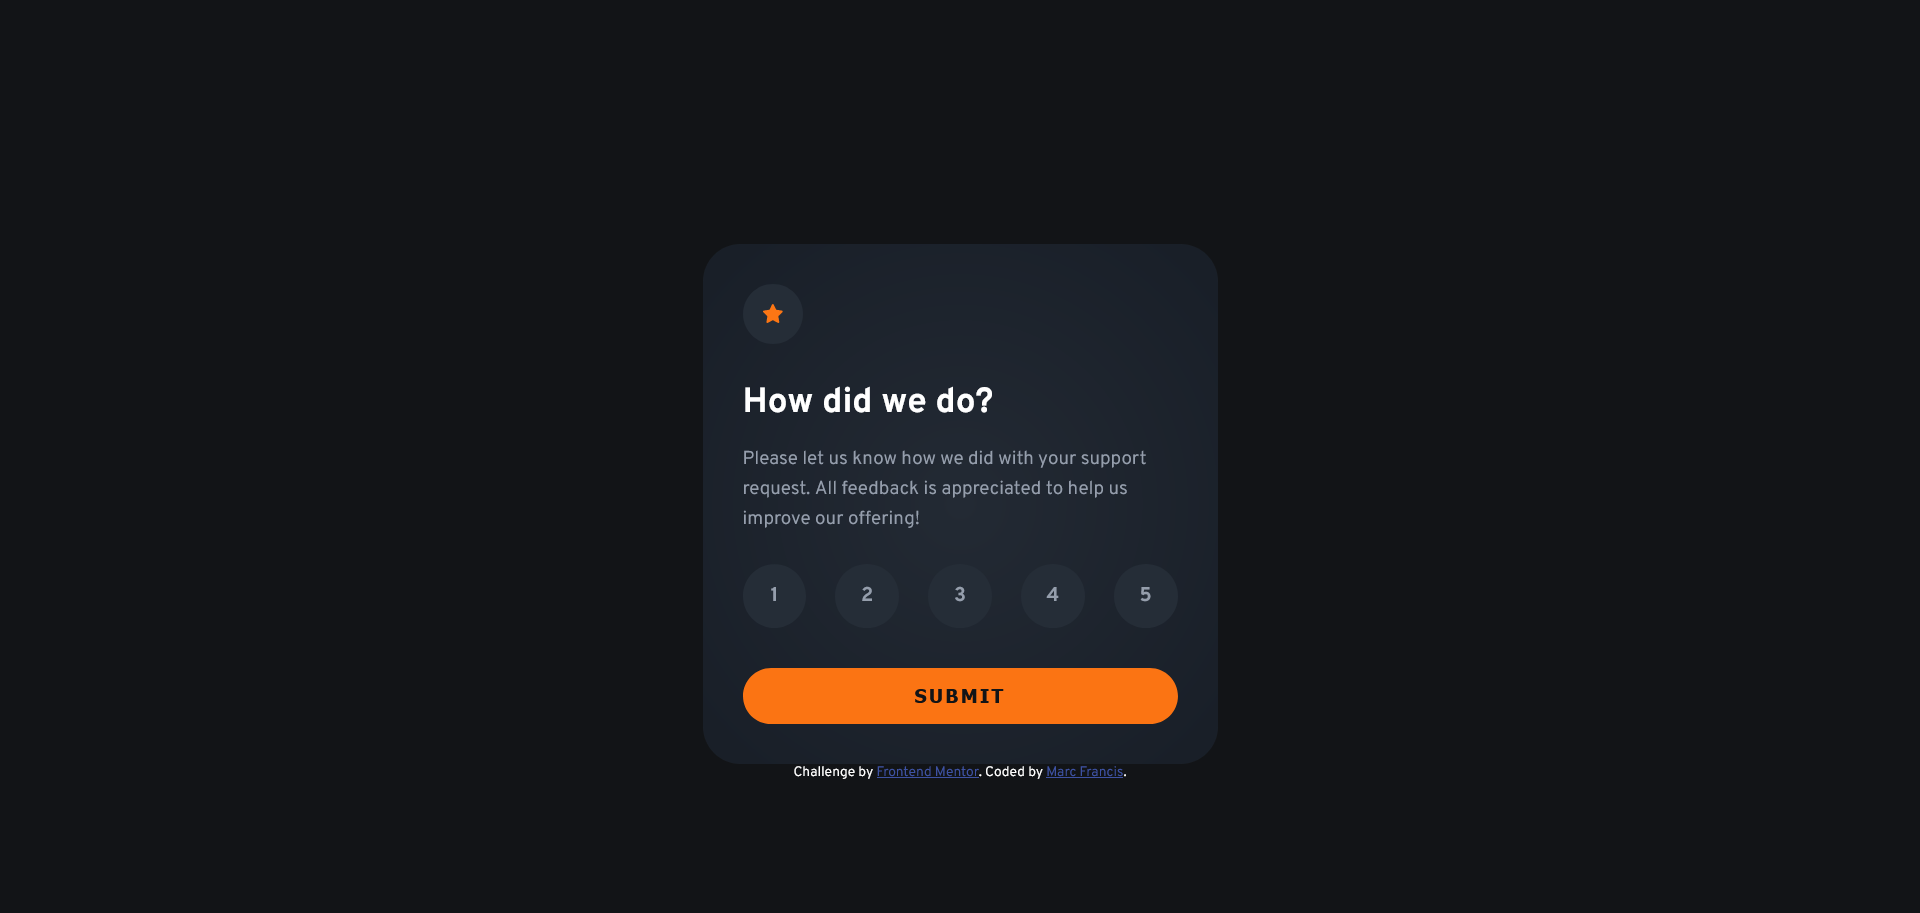
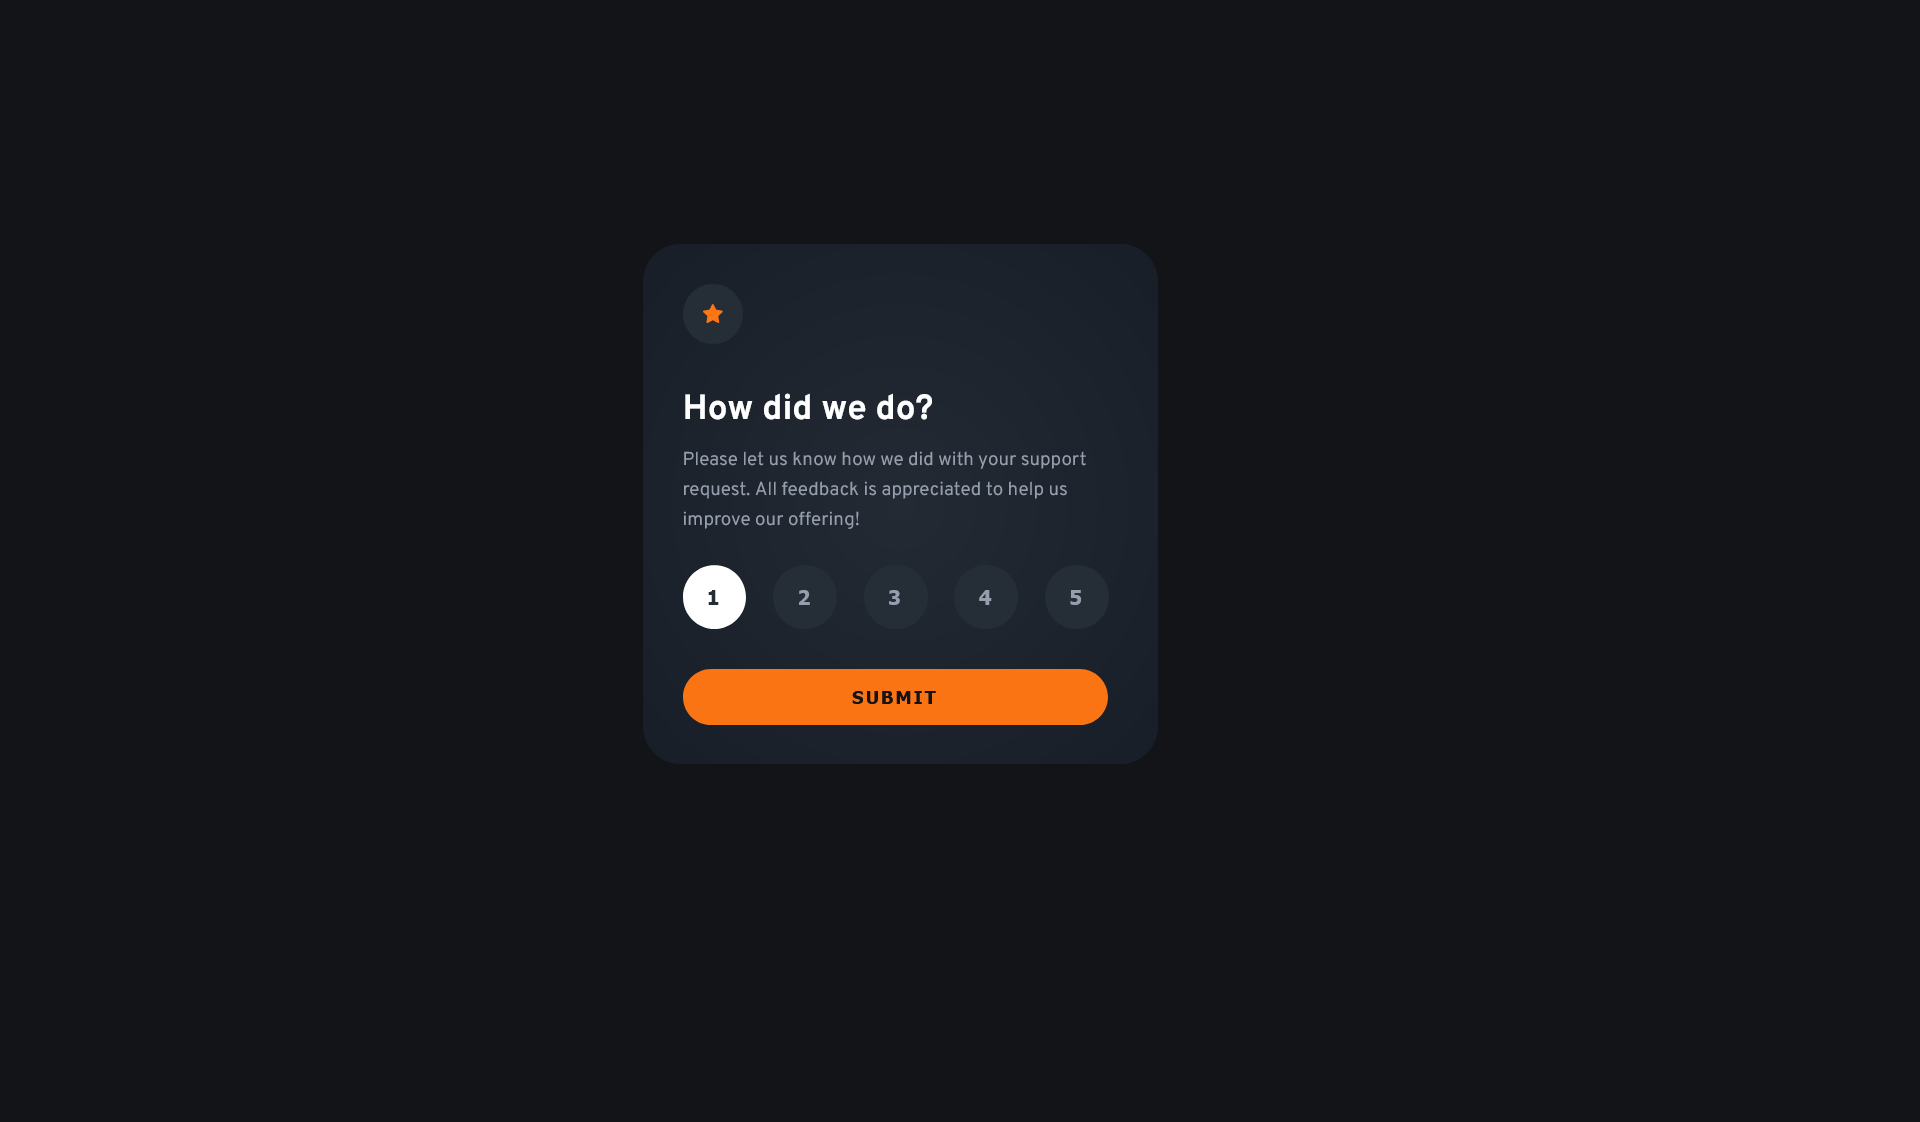
final

diff --git a/index.html b/index.html
@@ -16,51 +16,53 @@
   </head>
   <body>
     <!-- Rating state start -->
-    <section>
-      <div class="rating-container">
-        <div class="icon-holder">
-          <img src="./images/icon-star.svg" alt="" />
+    <main>
+      <section>
+        <div class="rating-container">
+          <div class="icon-holder">
+            <img src="./images/icon-star.svg" alt="" />
+          </div>
+          <h1 tabindex="0">How did we do?</h1>
+          <p tabindex="0">
+            Please let us know how we did with your support request. All
+            feedback is appreciated to help us improve our offering!
+          </p>
+          <div class="rate-container" tabindex="0">
+            <button class="rate" aria-label="rating 1" aria-selected="false">
+              1
+            </button>
+            <button class="rate" aria-label="rating 2" aria-selected="false">
+              2
+            </button>
+            <button class="rate" aria-label="rating 3" aria-selected="false">
+              3
+            </button>
+            <button class="rate" aria-label="rating 4" aria-selected="false">
+              4
+            </button>
+            <button class="rate" aria-label="rating 5" aria-selected="false">
+              5
+            </button>
+          </div>
+          <button class="btn-submit" type="button">Submit</button>
         </div>
-        <h1 tabindex="0">How did we do?</h1>
-        <p tabindex="0">
-          Please let us know how we did with your support request. All feedback
-          is appreciated to help us improve our offering!
-        </p>
-        <div class="rate-container">
-          <div role="radio" aria-checked="false" class="rate" tabindex="0">
-            1
-          </div>
-          <div role="radio" aria-checked="false" class="rate" tabindex="0">
-            2
-          </div>
-          <div role="radio" aria-checked="false" class="rate" tabindex="0">
-            3
-          </div>
-          <div role="radio" aria-checked="false" class="rate" tabindex="0">
-            4
-          </div>
-          <div role="radio" aria-checked="false" class="rate" tabindex="0">
-            5
-          </div>
-        </div>
-        <button class="btn-submit" type="button">Submit</button>
-      </div>
 
-      <!-- Rating state end -->
+        <!-- Rating state end -->
 
-      <!-- Thank you state start -->
-      <div class="result-container hidden">
-        <img src="./images/illustration-thank-you.svg" alt="" />
-        <div class="result">
-          You selected&nbsp<span class="rateResult"></span>&nbspout of 5
+        <!-- Thank you state start -->
+        <div class="result-container hidden">
+          <img src="./images/illustration-thank-you.svg" alt="" />
+          <h2 class="result" tabindex="0">
+            You selected&nbsp<span class="rateResult"></span>&nbspout of 5
+          </h2>
+          <p class="thank-you" tabindex="0">Thank you!</p>
+          <p class="message" tabindex="0">
+            We appreciate you taking the time to give a rating. If you ever need
+            more support, don’t hesitate to get in touch!
+          </p>
         </div>
-        <h2>Thank you!</h2>
-        <p>
-          We appreciate you taking the time to give a rating. If you ever need
-          more support, don’t hesitate to get in touch!
-        </p>
-      </div>
-    </section>
+      </section>
+    </main>
     <!-- Thank you state end -->
   </body>
   <script src="./script.js"></script>

diff --git a/style.css b/style.css
@@ -33,6 +33,9 @@ img {
 .hidden {
   display: none !important;
 }
+main {
+  max-width: 1440px;
+}
 section {
   margin: 195px auto auto auto;
   max-width: 412px;
@@ -49,7 +52,7 @@ section {
   border-radius: 50%;
   background-color: var(--clr-main);
   padding: 16px;
-  margin-bottom: 30px; /* mobile: 16px*/
+  margin-bottom: 35px; /* mobile: 16px*/
   /* transition: transform ease infinite; */
 }
 .icon-holder:hover {
@@ -68,7 +71,7 @@ section {
 }
 .rating-container h1 {
   font-size: 28px; /* 24px mobile*/
-  margin-bottom: 15px; /* mobile: 17px*/
+  margin-bottom: 11px; /* mobile: 17px*/
 }
 .rating-container p {
   font-size: 15px; /* mobile: 14px*/
@@ -79,8 +82,9 @@ section {
 .rate-container {
   margin-bottom: 32px; /* mobile: 24px*/
   display: flex;
-  justify-content: space-between;
-  list-style-type: none;
+  flex-direction: row;
+  gap: 21.5px;
+  /* justify-content: space-between; */
 }
 .rate {
   width: 51px;
@@ -107,12 +111,15 @@ section {
 }
 
 button {
+  border: none;
+  outline: none;
   width: 100%;
+  max-width: 340px;
   height: 45px;
   border-radius: 22.5px;
   text-transform: uppercase;
   color: var(--clr-accent);
-  font-size: 15px; /* mobile: 14px*/
+  font-size: 14px; /* mobile: 14px*/
   letter-spacing: 2px; /* mobile: 1.87px*/
   font-weight: 700;
   background-color: var(--clr-orange);
@@ -131,7 +138,7 @@ button:hover {
   justify-content: center;
   align-items: center;
 }
-.result-container:not(.hidden) h2 {
+.result-container:not(.hidden) .thank-you {
   animation: zoomIn 1s ease infinite;
 }
 @keyframes zoomIn {
@@ -166,12 +173,12 @@ button:hover {
   border-radius: 22.5px;
 }
 
-.result-container h2 {
+.thank-you {
   font-weight: 700;
   font-size: 28px; /*24px mobile*/
   margin-bottom: 15px; /* 17px mobile*/
 }
-.result-container p {
+.message {
   max-width: 35ch;
   font-size: 15px;
   line-height: 24px; /* 22px mobile*/
@@ -212,11 +219,11 @@ button:hover {
   .result-container img {
     margin-bottom: 24px;
   }
-  .result-container h2 {
+  .thank-you {
     font-size: 24px;
     margin-bottom: 17px;
   }
-  .result-container p {
+  .message {
     line-height: 22px;
   }
 }

diff --git a/script.js b/script.js
@@ -5,50 +5,18 @@ const resultC = document.querySelector(".result-container");
 const btnSubmit = document.querySelector(".btn-submit");
 
 rateC.forEach((rating) => {
-  const active = document.querySelector(".active");
   rating.addEventListener("click", (e) => {
+    const active = document.querySelector(".active");
     if (active) {
       active.classList.remove("active");
-      rate.setAttribute("aria-checked", false);
+      active.setAttribute("aria-selected", false);
     }
     const rate = e.target;
     rate.classList.add("active");
-    rate.setAttribute("aria-checked", true);
     rateResult.innerHTML = rate.innerHTML;
-  });
-  rating.addEventListener("keydown", (e) => {
-    console.log(e.which);
-    console.log(e.target);
-    const keyCode = e.which;
-    const spaceKeyCode = 32;
-    const enterKeyCode = 13;
-    const rate = e.target;
-    if (active) {
-      active.classList.remove("active");
-      rate.setAttribute("aria-checked", false);
-    }
-    if (keyCode !== spaceKeyCode) {
-      console.log(`Incorrect key stroke. Only space and enter is available.`);
-      return;
-    } else {
-      rate.classList.add("active");
-      rate.setAttribute("aria-checked", true);
-      rateResult.innerHTML = rate.innerHTML;
-    }
+    rate.setAttribute("aria-selected", true);
   });
 });
-
-// function pressed(keyCode) {
-//   console.log(keyCode);
-//   const spaceKeyCode = 32;
-//   const enterKeyCode = 13;
-//   if (keyCode && keyCode == spaceKeyCode) {
-//     console.log(`Incorrect key stroke. Only space and enter is available.`);
-//     return;
-//   } else {
-//     rating.setAttribute("aria-checked", true);
-//   }
-// }
 
 btnSubmit.addEventListener("click", () => {
   if (rateResult.innerHTML == "") {
